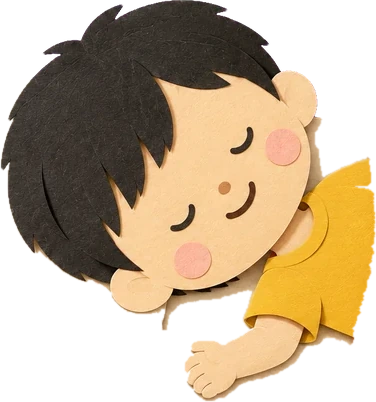
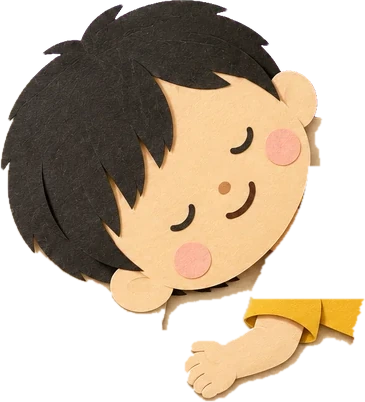
나의 빨간 자동차 1장 침대 잠 2차: 옆으로 누운 노란 어깨 때문에 몸이 잘린 듯 보이던 것 고침 — 얼굴 옆 어깨를 지우고, 이불 윗단에 접힌 흰 홑청 띠(턱 아래 어깨선 덮기)와 이불 속 몸 언덕(어깨→발, 침대 길이 방향)을 더함. 이불 층 셋은 밤빛 필터(sRGB)로 배경과 같은 색, 함께 숨쉬기
Claude-Session: https://claude.ai/code/session_015D7fGjm4nVvpfW8sbSdtTy

diff --git a/tales/red_car/red_car.js b/tales/red_car/red_car.js
@@ -200,12 +200,13 @@
   const fadeOut = async (T, a, ms = 450) => { await T.anim(a.pos, [{ opacity: 1 }, { opacity: 0 }], ms); hide(a); a.pos.style.opacity = ''; };
   const glow = (a, ms = 900) => { a.body.style.filter = 'url(#hintGlow)'; setTimeout(() => { a.body.style.filter = ''; }, ms); };
   /* 침대에서 자는 이현이(1장 '잠잘 때도 쌔근', 2026-10-22). 그림 3장은 tools/app/gen/post_red_car_bed.py 가 오린다.
-     층(뒤→앞): 배경 침대(머리판·베개) → 이현이(요·베개·주황 이불을 지운 머리와 어깨) → 파란 이불(배경에서 오린 앞 가림 층) → 팔·손 → 빨간 자동차.
+     층(뒤→앞): 배경 침대(머리판·베개) → 이현이(요·베개·주황 이불·옆 어깨를 지운 머리) → 파란 이불(배경에서 오린 앞 가림 층) → 몸 언덕(어깨→발, 침대 길이 방향)
+       → 접힌 흰 홑청 띠(어깨선을 덮는다) → 팔·손 → 빨간 자동차. 이불 층 셋은 배경과 같은 밤빛 필터를 쓴다.
      좌표는 배경 그림 픽셀(1600×902) 기준: 이불 층이 놓일 자리 = 오린 자리, 이현이 머리 가운데(그림 (190,175))는 베개 위 (1440,412).
      크기는 바닥 잠 그림(rc_child_sleep, 높이 443 → HT 130)과 같은 비율이라 다른 자세와 얼굴 크기가 같다 */
   const BED = {
-    f: { kid: 'rc_child_sleep_bed', arm: 'rc_child_sleep_arm', quilt: 'rc_layer_bed_front' },
-    quilt: [1313, 445, 285, 266], kid: [25, 4, 376, 402], arm: [209, 299, 138, 104],
+    f: { kid: 'rc_child_sleep_bed', arm: 'rc_child_sleep_arm', quilt: 'rc_layer_bed_front', hump: 'rc_layer_bed_hump', fold: 'rc_layer_bed_fold' },
+    quilt: [1313, 445, 285, 266], hump: [1379, 453, 180, 88], fold: [1362, 442, 236, 39], kid: [25, 4, 365, 402], arm: [209, 299, 138, 104],
     head: [190, 175], at: [1440, 412], rot: -4, armShift: [-6, -14], hand: [238, 372],
   };
   function bedSleep(T) {
@@ -215,7 +216,7 @@
     const defs = T.el('defs', {}, root);
     const fq = T.el('filter', { id: 'rcQuiltSh', x: '-10%', y: '-10%', width: '120%', height: '125%' }, defs);
     T.el('feDropShadow', { dx: 0, dy: 2, stdDeviation: 2.2, 'flood-color': '#2E241C', 'flood-opacity': .4 }, fq);
-    const fn = T.el('filter', { id: 'rcQuiltNight' }, defs), ct = T.el('feComponentTransfer', {}, fn);   // 배경과 같은 밤빛(#1F2A56 을 .22 로 덮은 색)
+    const fn = T.el('filter', { id: 'rcQuiltNight', 'color-interpolation-filters': 'sRGB' }, defs), ct = T.el('feComponentTransfer', {}, fn);   // 배경과 같은 밤빛(#1F2A56 을 .22 로 덮은 색)
     [['feFuncR', 31], ['feFuncG', 42], ['feFuncB', 86]].forEach(([n, c]) => T.el(n, { type: 'linear', slope: .78, intercept: +(c / 255 * .22).toFixed(4) }, ct));
     const piece = (parent, f, o, d = [0, 0], attrs = {}) => {
       const g = T.el('g', { transform: `translate(${d[0] * bs},${d[1] * bs}) rotate(${BED.rot} ${hx} ${hy})`, ...attrs }, parent);
@@ -224,9 +225,8 @@
     };
     piece(root, BED.f.kid, BED.kid, [0, 0], { filter: 'url(#pp)' });
     const breathe = T.el('g', {}, root);                       // 이불·팔·자동차가 숨 쉬듯 함께 오르내린다
-    const q = BED.quilt, quilt = (attrs) => T.el('image', { href: src(BED.f.quilt), x: bx(q[0]), y: by(q[1]), width: q[2] * bs, height: q[3] * BGBOX.h / 902, ...attrs }, breathe);
-    quilt({ filter: 'url(#rcQuiltSh)' });
-    const qn = quilt({ filter: 'url(#rcQuiltNight)', opacity: 0 });
+    const qg = T.el('g', { filter: 'url(#rcQuiltNight)' }, breathe);
+    ['quilt', 'hump', 'fold'].forEach(k => { const q = BED[k]; T.el('image', { href: src(BED.f[k]), x: bx(q[0]), y: by(q[1]), width: q[2] * bs, height: q[3] * BGBOX.h / 902, filter: 'url(#rcQuiltSh)' }, qg); });
     const armG = piece(breathe, BED.f.arm, BED.arm, BED.armShift, { filter: 'url(#pp)' });
     const r = BED.rot * Math.PI / 180, dx = (BED.hand[0] - BED.head[0]) * K, dy = (BED.hand[1] - BED.head[1]) * K;
     const hand = [hx + dx * Math.cos(r) - dy * Math.sin(r) + BED.armShift[0] * bs, hy + dx * Math.sin(r) + dy * Math.cos(r) + BED.armShift[1] * bs];
@@ -235,7 +235,6 @@
       hold(a) { breathe.insertBefore(a.pos, armG); },   // 자동차는 이불 위·손 아래(손이 지붕을 쥔다)
       show() {
         T.anim(root, [{ opacity: 0 }, { opacity: 1 }], 500).then(() => root.setAttribute('opacity', 1));
-        T.anim(qn, [{ opacity: 0 }, { opacity: 1 }], 500).then(() => qn.setAttribute('opacity', 1));
         breathe.animate([{ translate: '0 0' }, { translate: '0 -1.6px' }, { translate: '0 0' }], { duration: 2600, iterations: Infinity, easing: 'ease-in-out' });
       },
     };

diff --git a/tales/red_car/index.html b/tales/red_car/index.html
@@ -15,6 +15,6 @@
 <script src="../../entitlements.js"></script>
 <script src="../../audio.js"></script>
 <script src="../../engine/tale.js"></script>
-<script src="red_car.js?v=20261022f"></script>
+<script src="red_car.js?v=20261022g"></script>
 </body>
 </html>

diff --git a/tools/app/gen/post_red_car_bed.py b/tools/app/gen/post_red_car_bed.py
@@ -4,6 +4,9 @@
 - rc_layer_bed_front.webp : 배경 rc_bg_room_v2 에서 침대 파란 이불만 오린 앞 가림 층(배경 픽셀 그대로, 왼쪽 위 = 배경 (X0,Y0))
 - rc_child_sleep_bed.webp : rc_child_sleep 에서 바닥 요·베개·주황 이불을 지운 이현이(머리·어깨·팔). 몸은 이불 층이 덮는다
 - rc_child_sleep_arm.webp : 같은 그림의 팔(소매~손)만. 이불 층 위에 얹어 자동차를 쥔 손이 보이게 한다
+- rc_layer_bed_hump.webp  : 이불 아래 몸이 이어지는 불룩한 언덕(어깨→발, 침대 길이 방향). 이불 결을 그대로 쓴 조금 밝은 파란 한 장
+- rc_layer_bed_fold.webp  : 이불 윗단에 접힌 흰 홑청 띠(어깨를 덮는다). 이불 결을 흰 종이색으로 바꾼 한 장
+  (2026-10-22 2차: 옆으로 누운 노란 어깨가 '몸이 잘린 것' 같다는 의견 → 얼굴 오른쪽 어깨를 지우고 언덕·홑청 띠를 더함)
 끝에 각 그림의 원본 좌표(오린 자리)를 출력한다. red_car.js 의 BED 상수가 이 값을 쓴다."""
 import os
 import numpy as np
@@ -42,9 +45,41 @@ keep = (a > 20) & ~mat & ~orange
 keep[:, 400:] = False
 keep = ndimage.binary_fill_holes(big(ndimage.binary_opening(keep, iterations=2)))
 keep[334:, :210] = False                                                           # 요 아래 그림자 줄
+yy, xx = np.mgrid[:keep.shape[0], :keep.shape[1]]
+yel = (r > 200) & (g > 150) & (b < 120) & (r - b > 110)
+face = ((xx - 225) / 108.) ** 2 + ((yy - 160) / 128.) ** 2 <= 1
+arm_keep = keep.copy()                                                             # 팔 조각은 어깨를 지우기 전 그림에서 뜬다
+keep &= ~((ndimage.binary_dilation(big(yel & (xx >= 260) & (yy < 300)), iterations=3) | ((xx >= 290) & (yy >= 170) & (yy < 300))) & ~face)   # 얼굴 오른쪽 옆 어깨
 soft = lambda k: np.minimum(a, ndimage.gaussian_filter(k.astype(float), .7) * 255).astype('uint8')
 save(np.dstack([im[..., :3].astype('uint8'), soft(keep)]), 'rc_child_sleep_bed')
-yy, xx = np.mgrid[:keep.shape[0], :keep.shape[1]]
 skin = (r > 220) & (g > 180) & (b > 130) & ((r - g) > 25)
-arm = keep & (yy >= 300) & (xx >= 190) & (xx <= 345) & (skin | (xx >= 255))
+arm = arm_keep & (yy >= 300) & (xx >= 190) & (xx <= 345) & (skin | (xx >= 255))
 save(np.dstack([im[..., :3].astype('uint8'), soft(big(arm))]), 'rc_child_sleep_arm')
+
+# 4·5. 몸 언덕과 홑청 띠(배경 좌표 그대로)
+H, W = bg.shape[:2]; yy, xx = np.mgrid[:H, :W]
+Q = m.copy()
+hump = np.zeros((H, W), bool)
+p0, p1 = np.array([1450, 474.]), np.array([1505, 526.])
+for t in np.linspace(0, 1, 40):
+    c = p0 + (p1 - p0) * t; rx, ry = 70 - 18 * t, 20 - 6 * t
+    hump |= ((xx - c[0]) / rx) ** 2 + ((yy - c[1]) / ry) ** 2 <= 1
+hump = ndimage.gaussian_filter((hump & Q).astype(float), 1.0) * 255
+bgf = bg.astype(float)
+save(np.dstack([np.clip(bgf * 1.08 + 10, 0, 255).astype('uint8'), hump.astype('uint8')]), 'rc_layer_bed_hump')
+top = np.full(W, -1)
+for x in range(1334, 1598):
+    c = np.where(Q[:, x])[0]
+    if len(c): top[x] = c.min()
+ok = top > 0; top = np.where(ok, np.round(ndimage.median_filter(np.where(ok, top, 9999), size=15)), -1).astype(int)   # 띠 윗선을 곧게(이불 경계의 잔털 무시)
+band = np.zeros((H, W), bool)
+for x in range(1334, 1598):
+    if 0 < top[x] < 470: band[top[x] - 3:top[x] + 15, x] = True
+band = ndimage.binary_opening(band, iterations=1)
+L = np.where(band.any(0))[0].min()
+for x in range(L, L + 14):                                                          # 왼쪽 끝을 둥글게
+    c = np.where(band[:, x])[0]; mid = (c.min() + c.max()) / 2; hh = (c.max() - c.min()) / 2 * np.sqrt(max(0, 1 - ((L + 14 - x) / 14) ** 2))
+    band[:, x] &= np.abs(np.arange(H) - mid) <= hh
+lum = bgf.mean(2)
+white = np.clip((lum - lum[Q].mean())[..., None] * .8 + np.array([245, 243, 237]), 0, 255).astype('uint8')
+save(np.dstack([white, (ndimage.gaussian_filter(band.astype(float), .8) * 255).astype('uint8')]), 'rc_layer_bed_fold')
